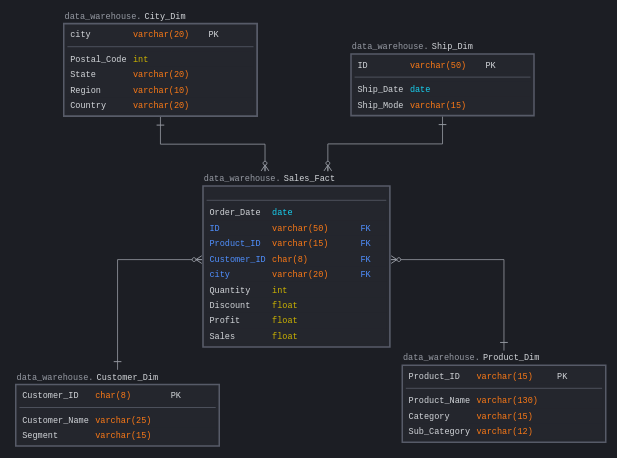
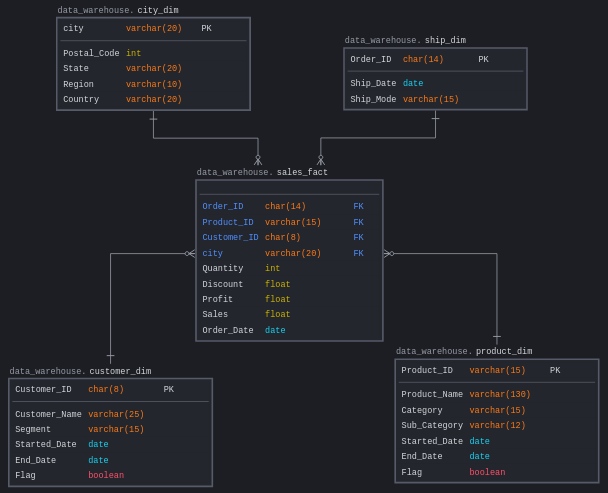
new updates

Changed region(s): [[0.0, 0.0, 1.0, 1.0], [0.8125, 0.5197, 0.8438, 0.5502], [0.2812, 0.8559, 0.3125, 0.8865]]

diff --git a/README.md b/README.md
@@ -49,7 +49,7 @@ Table of Content
   <img src="Images/data_architecture.png" style="border: 1px solid black;width:600px;height:800px" alt="Data Source" >
 </p>
 
-  ### Data Extraction
+### Data Extraction
   
   We have build several python function in drive_gcs_intgr.py to extract data from Google Drive and load it into data staging in BigQuery.
 
@@ -60,8 +60,6 @@ Table of Content
   - **clean_name()** is used to get clean name of flat files. So we can create pandas dataframe and data staging based on each flat files name.
   - **excel_files_to_pandas()** is used to convert each flat files or excel files to dataframe using pandas and put it together into python dictionary.  
   - **main()** is used to execute authentication, download and flat files extraction process into python dictionary. Then, load each dataframe in dictionary to data staging in BigQuery with table name = cleaned flat file name. Replace old tables with new tables if exist.  
-
-
 
   Here is orders, categories and customers staging that we have created by executing **drive_gcs_intgr.py** : 
   <p align="center">
@@ -74,29 +72,163 @@ Table of Content
   <img src="Images/orders_staging.png" style="border: 1px solid black" alt="Orders Staging" >
   </p>
 
-  ### Data Transform and Load
+### Data Transform and Load
 
   **1. Create Empty Fact and Dimension Table Based on Data Warehouse Modeling**
    
-   Main Step: 
-   - Design a star schema data model for data warehouse using [sqldbm](https://app.sqldbm.com) 
-   - Create sales_warehouse dataset in BigQuery
-   - Create empty fact and dimension table with each schemas based designed data model
+   Main process: 
+   - Design a star schema data model for data warehouse using [sqldbm](https://app.sqldbm.com). 
+   - Create sales_warehouse dataset in BigQuery.
+   - Create empty fact and dimension table based designed data model.
     
-   The Result:  
+   Result:  
 
   <p align="center">
       <img src="Images/data_warehouse_design.png" style="border: 1px solid black" alt="Data Staging Design" >
-  </p> 
-    
+  </p>
+  <p align="center">
+      <img src="Images/dataset_warehouse.png" style="border: 1px solid black" alt="Data Staging Design" >
+  </p>
+  <br>
+   
 
-**2. Data Staging to Data Warehouse Query (Inflow)**
+**2. Data Staging to Data Warehouse Queries**
   This query contain several process:  
-  - 
-  - 
-**3. Data Warehouse to Aggregation Table Query (Upflow)**
+  - Inflow process from order_staging to sales_fact, ship_dim and city_dim
+  - Inflow process from categories_staging to product_dim using SCD Type-2
+  - Inflow process from customer_staging to customer_dim using SCD Type-2
+  
+  Here the query:
+  ``` sql
+  #Inflow sales_staging.categories to sales_warehouse.product_dim using SCD Type 2 
+  MERGE `wildan-portofolio.sales_warehouse.product_dim` p_dim
+  USING `wildan-portofolio.sales_staging.categories_staging` cs
+    ON p_dim.Product_ID = cs.Product_ID
+  WHEN NOT MATCHED THEN 
+    INSERT VALUES (
+      cs.Product_ID,
+      cs.Category,
+      cs.Sub_Category,
+      cs.Product_Name,
+      CURRENT_DATE(),
+      NULL,
+      TRUE
+    )
+  WHEN MATCHED AND (
+    p_dim.Category <> cs.Category
+    OR p_dim.Sub_Category <> cs.Sub_Category
+    OR p_dim.Product_Name <> cs.Product_Name
+  )
+  THEN UPDATE SET 
+    End_Date = CURRENT_DATE, Flag = False;
 
-  ### Data Visualization
+  #Inflow sales_staging.customers_staging to sales_warehouse.cutomers_dim using SCD Type 2
+  MERGE `wildan-portofolio.sales_warehouse.customer_dim` c_main
+  USING `wildan-portofolio.sales_staging.customers_staging` ts
+  ON c_main.Customer_ID = ts.Customer_ID
+  WHEN NOT MATCHED THEN 
+    INSERT VALUES (
+      ts.Customer_ID,
+      ts.Customer_Name,
+      ts.Segment,
+      CURRENT_DATE(),
+      NULL,
+      TRUE
+    )
+  WHEN MATCHED AND (
+    c_main.Customer_ID <> ts.Customer_ID
+    OR c_main.Customer_Name <> ts.Customer_Name
+    OR c_main.Segment <> ts.Segment
+  )
+  THEN UPDATE SET 
+    End_Date = CURRENT_DATE(), Flag = False;
+
+  #Inflow sales_staging.order_staging to sales_warehouse.sales_fact
+  MERGE `wildan-portofolio.sales_warehouse.sales_fact` s_main
+  USING `wildan-portofolio.sales_staging.orders_staging` os
+  ON 
+    s_main.Order_ID = os.Order_ID 
+    AND s_main.Order_Date = DATE(os.Order_Date)
+    AND s_main.Product_ID = os.Product_ID
+    AND s_main.Customer_ID = os.Customer_ID
+    AND s_main.City = os.City
+    AND s_main.Quantity = CAST(ROUND(os.Quantity) AS INT64)
+    AND s_main.Discount = os.Discount
+    AND s_main.Profit = os.Profit
+    AND s_main.Sales = os.Sales
+  WHEN NOT MATCHED THEN 
+    INSERT VALUES (
+      os.Order_ID,
+      DATE(os.Order_Date),
+      os.Product_ID,
+      os.Customer_ID,
+      os.City,
+      CAST(ROUND(os.Quantity) AS INT64),
+      os.Discount,
+      os.Profit,
+      os.Sales
+    );
+
+  #Inflow sales_staging.order_staging to sales_warehouse.ship_dim
+  MERGE `wildan-portofolio.sales_warehouse.ship_dim` sh_main
+  USING (
+    SELECT
+      Order_ID,
+      Ship_Date,
+      Ship_Mode 
+    FROM
+  `wildan-portofolio.sales_staging.orders_staging`
+    GROUP BY
+      Order_ID,
+      Ship_Date,
+      Ship_Mode) os
+  ON 
+    sh_main.Order_ID = os.Order_ID 
+    AND sh_main.Ship_Date = DATE(os.Ship_Date)
+    AND sh_main.Ship_Mode = os.Ship_Mode
+  WHEN NOT MATCHED THEN 
+    INSERT VALUES (
+      os.Order_ID,
+      DATE(os.Ship_Date),
+      os.Ship_Mode
+    );
+
+  #Inflow sales_staging.order_staging to sales_warehouse.city_dim
+  MERGE `wildan-portofolio.sales_warehouse.city_dim` sh_main
+  USING (
+    SELECT
+      City,
+      Postal_Code,
+      State,
+      Region,
+      Country 
+    FROM
+  `wildan-portofolio.sales_staging.orders_staging`
+    GROUP BY
+      Postal_Code,
+      City,
+      State,
+      Region,
+      Country) os
+  ON 
+      sh_main.City = os.City 
+      AND sh_main.Postal_Code = CAST(ROUND(os.Postal_Code) AS INT64)
+      AND sh_main.State = os.State
+      AND sh_main.Region = os.Region
+      AND sh_main.Country = os.Country 
+  WHEN NOT MATCHED THEN 
+    INSERT VALUES (
+      City,
+      CAST(ROUND(os.Postal_Code) AS INT64),
+      State,
+      Region,
+      Country
+    );
+
+  ```
+**3. Create Aggregation Table By Querying Data Warehouse  (Upflow)**
+
+### Data Visualization
 
 ## Further Improvements
 ## Special Thanks
